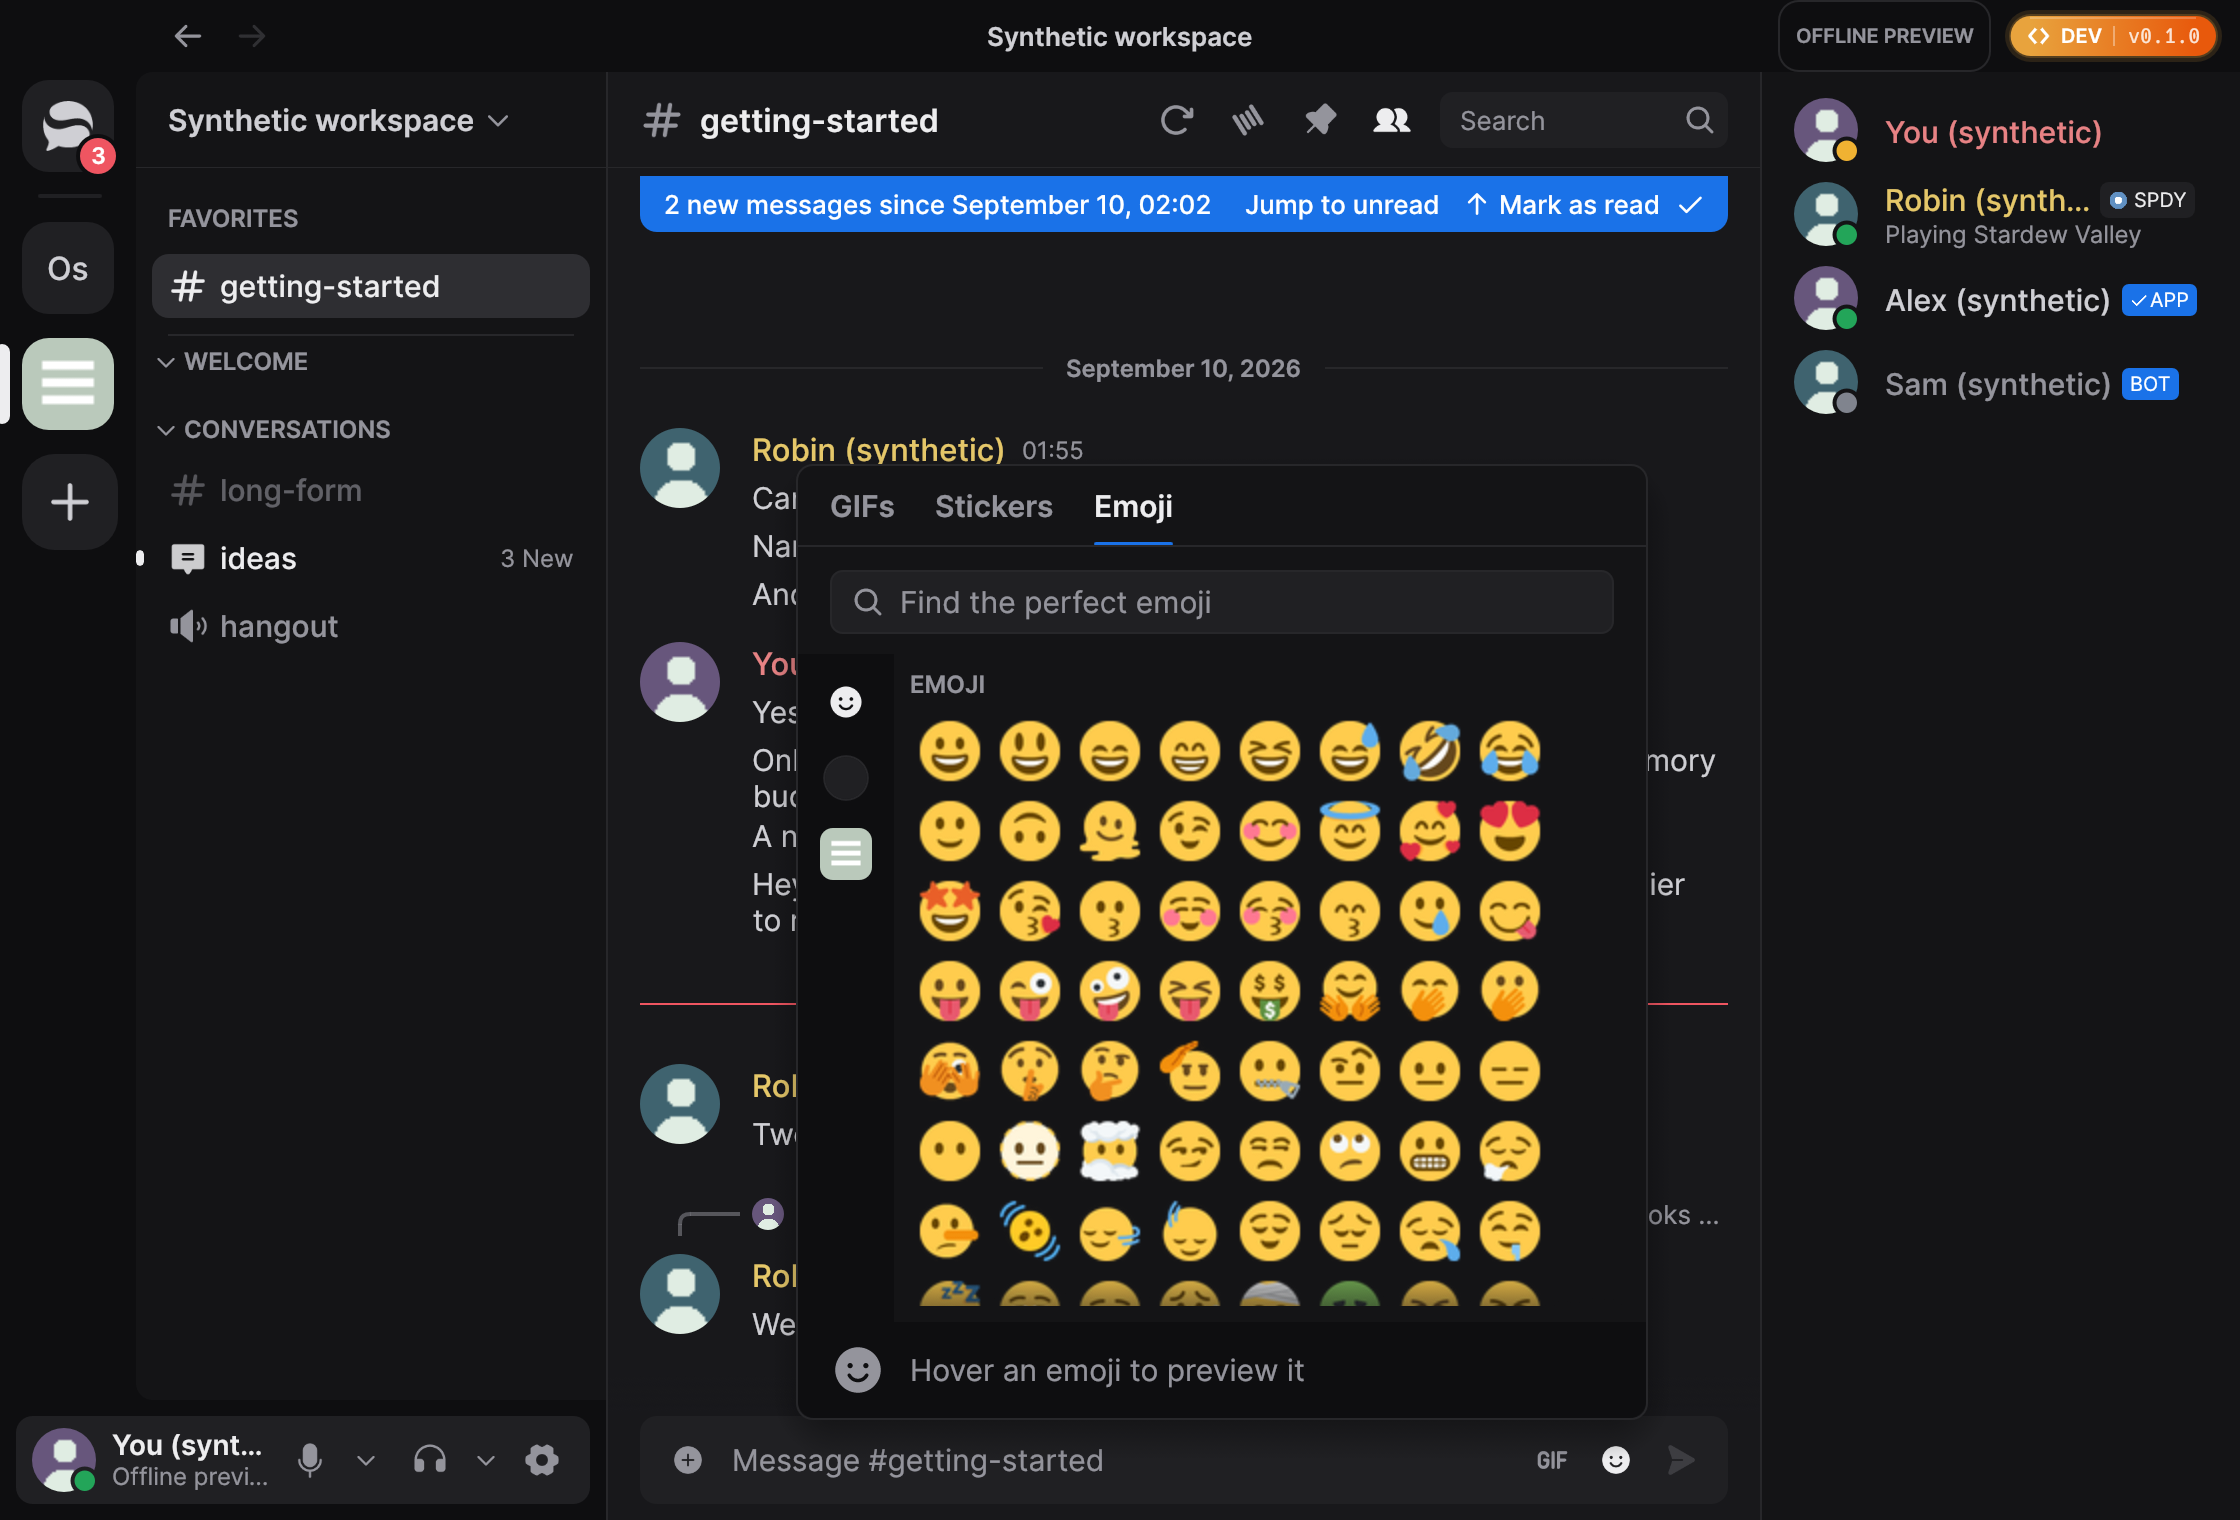
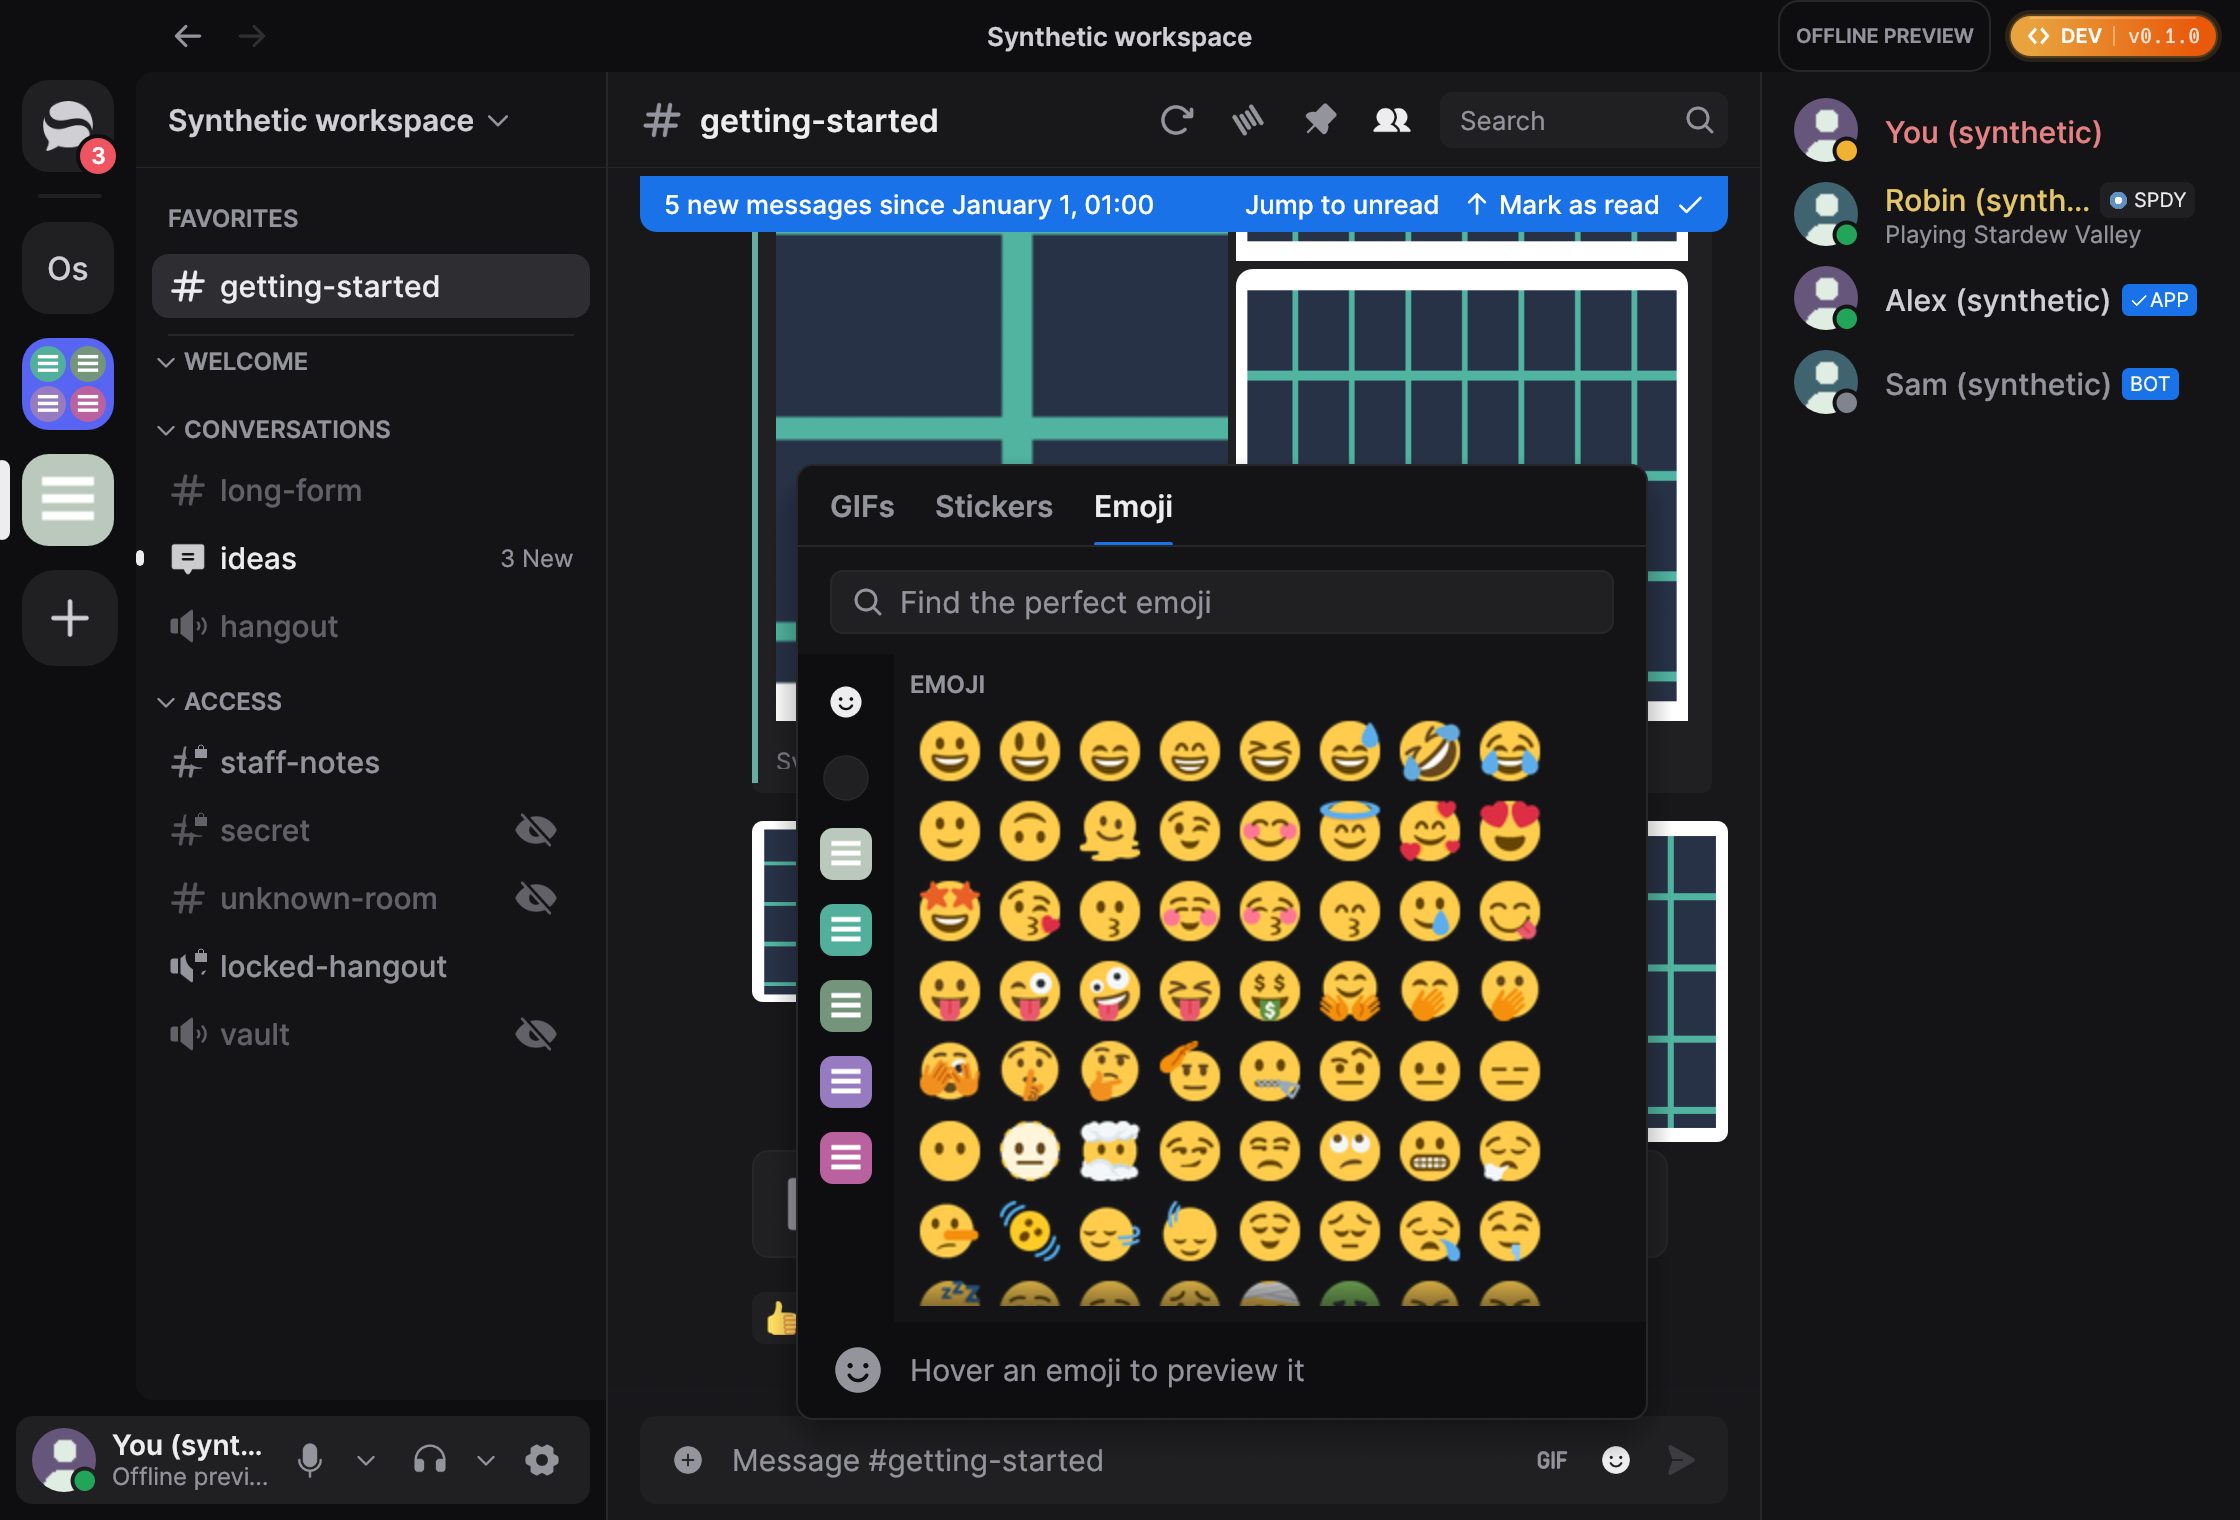
docs(ui): record active-server picker delivery evidence

diff --git a/docs/performance.md b/docs/performance.md
@@ -3193,6 +3193,52 @@ Raw build sizes, hashes and process samples are retained in
 `docs/pr-evidence/external-upload/measurements.json`. The evidence-only follow-up
 changes no runtime source from the measured commit.
 
+## Active server in the emoji picker (October 2, 2026)
+
+Parent `47a81035047695fe1d81edc4cb7efe46c14d87a8` and runtime source
+`942bf21c92240d4fa0a8dbf2392ae9b159ed2fba` used pinned Rust 1.98.1 on
+macOS 27.0 (26A428), Apple M1 (8 logical CPUs), 16 GiB RAM and native Metal
+at 2× display scale. The preserved standard package at `ef9cd5d1` has identical
+runtime and host-build inputs to parent `47a81035`, verified across apps,
+crates, assets, tools, vendor, macOS packaging, Cargo files, notices, license
+and toolchain. Intervening Arch/repository recipes do not affect this host package.
+Both normal voice-enabled `cargo xtask package` builds passed without profile
+or feature overrides; xtask internally uses `--no-default-features`. Installed
+bytes sum all regular files; ZIPs use `ditto -c -k --sequesterRsrc` without an
+enclosing directory. Both packages contain 206 files.
+
+| Metric | Baseline | After | Absolute / percent delta |
+| --- | ---: | ---: | ---: |
+| Standard executable, bytes | 62,088,304 | 62,088,304 | 0 / 0% |
+| Full installed payload, bytes | 68,098,733 | 68,098,733 | 0 / 0% |
+| Complete ZIP, bytes | 43,286,187 | 43,286,600 | +413 / +0.000954% |
+| Release demo median process CPU | 0.0% | 0.0% | +0.0 percentage points |
+| Sampled peak process RSS, KiB | 131,360 | 131,504 | +144 / +0.1096% |
+| Settled process RSS, KiB | 131,312 | 131,472 | +160 / +0.1218% |
+
+The native process comparison uses matched
+`cargo build --release --locked -p serein --features demo` builds with the
+identical process-only `CARGO_PROFILE_RELEASE_LTO=thin` override and
+`CARGO_BUILD_JOBS=2`, in an independent cache. This changes no repository
+profile and is separate from the standard fat-LTO package comparison above.
+Both uninstrumented binaries run `--demo --demo-emoji`, with five seconds of
+warmup followed by ten one-second macOS `ps` CPU/RSS samples. Settled RSS is
+the median of the last five samples. All four build owners held compilation,
+and no other Serein demo ran during either sample. Both processes were stopped
+by intentional SIGINT after collection. One build/sample per revision, small
+RSS/ZIP differences and quantized 0.0% idle CPU do not establish an improvement.
+
+The performance workload opens the ordinary offline picker. Actual native
+before/after frames separately use the same temporary fixture inserting one
+server before the active server; instrumentation was removed before committing.
+The rail remaps visible indices without copying catalogs, and the regression
+clicks the displayed first guild and restores an actually scrolled 42-server
+rail to its top after the active guild changes. Active scrolling, GPU memory,
+frame/startup latency, OS input routing and live Discord behavior remain
+unmeasured. Raw hashes, package sizes and process samples are retained in
+`docs/pr-evidence/active-server-emoji/measurements.json`. The evidence-only
+follow-up changes no runtime source from the measured commit.
+
 ## AUR binary recipe payload (October 2, 2026)
 
 The local packaging pass used the published Arch x86_64 package from
